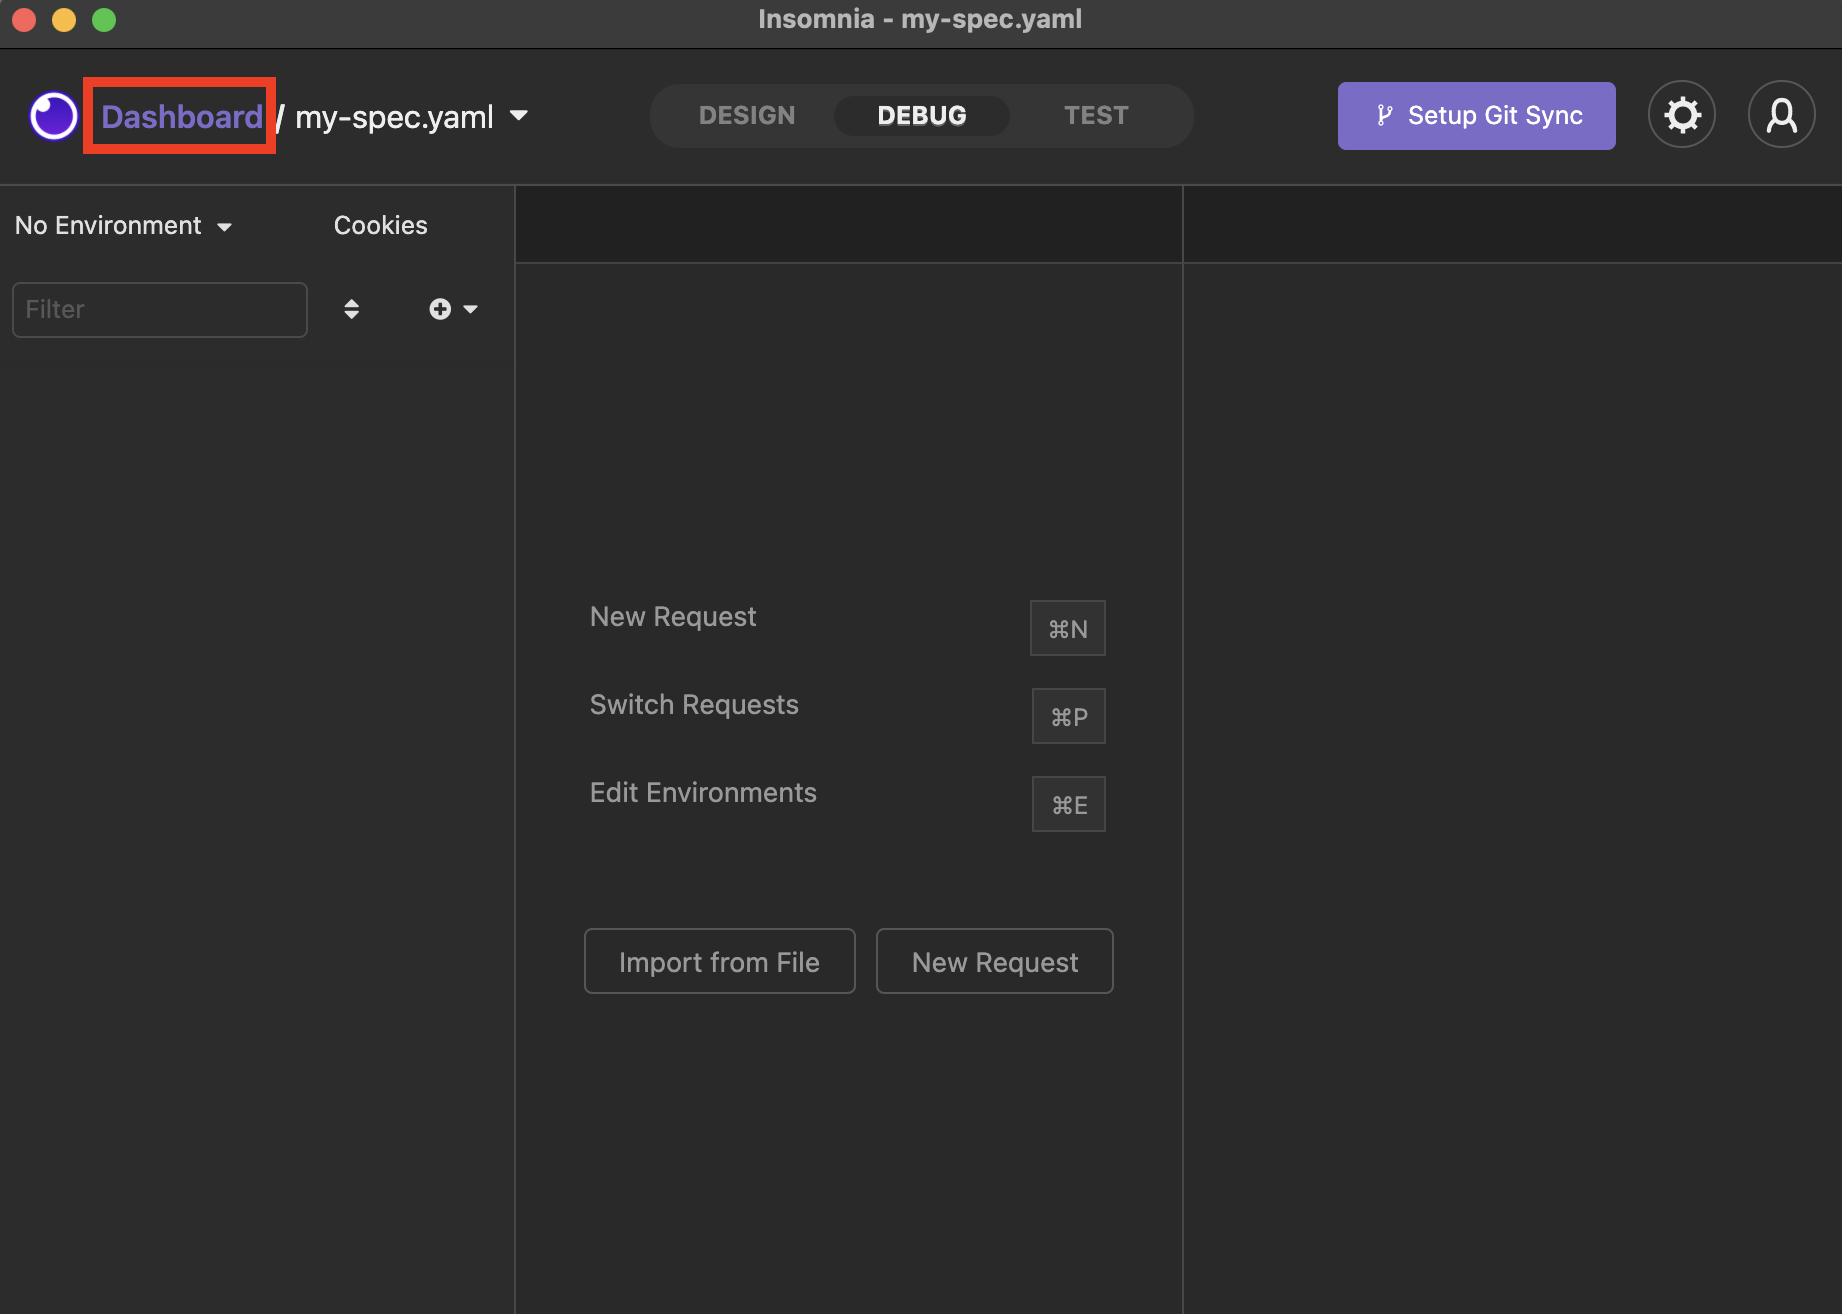
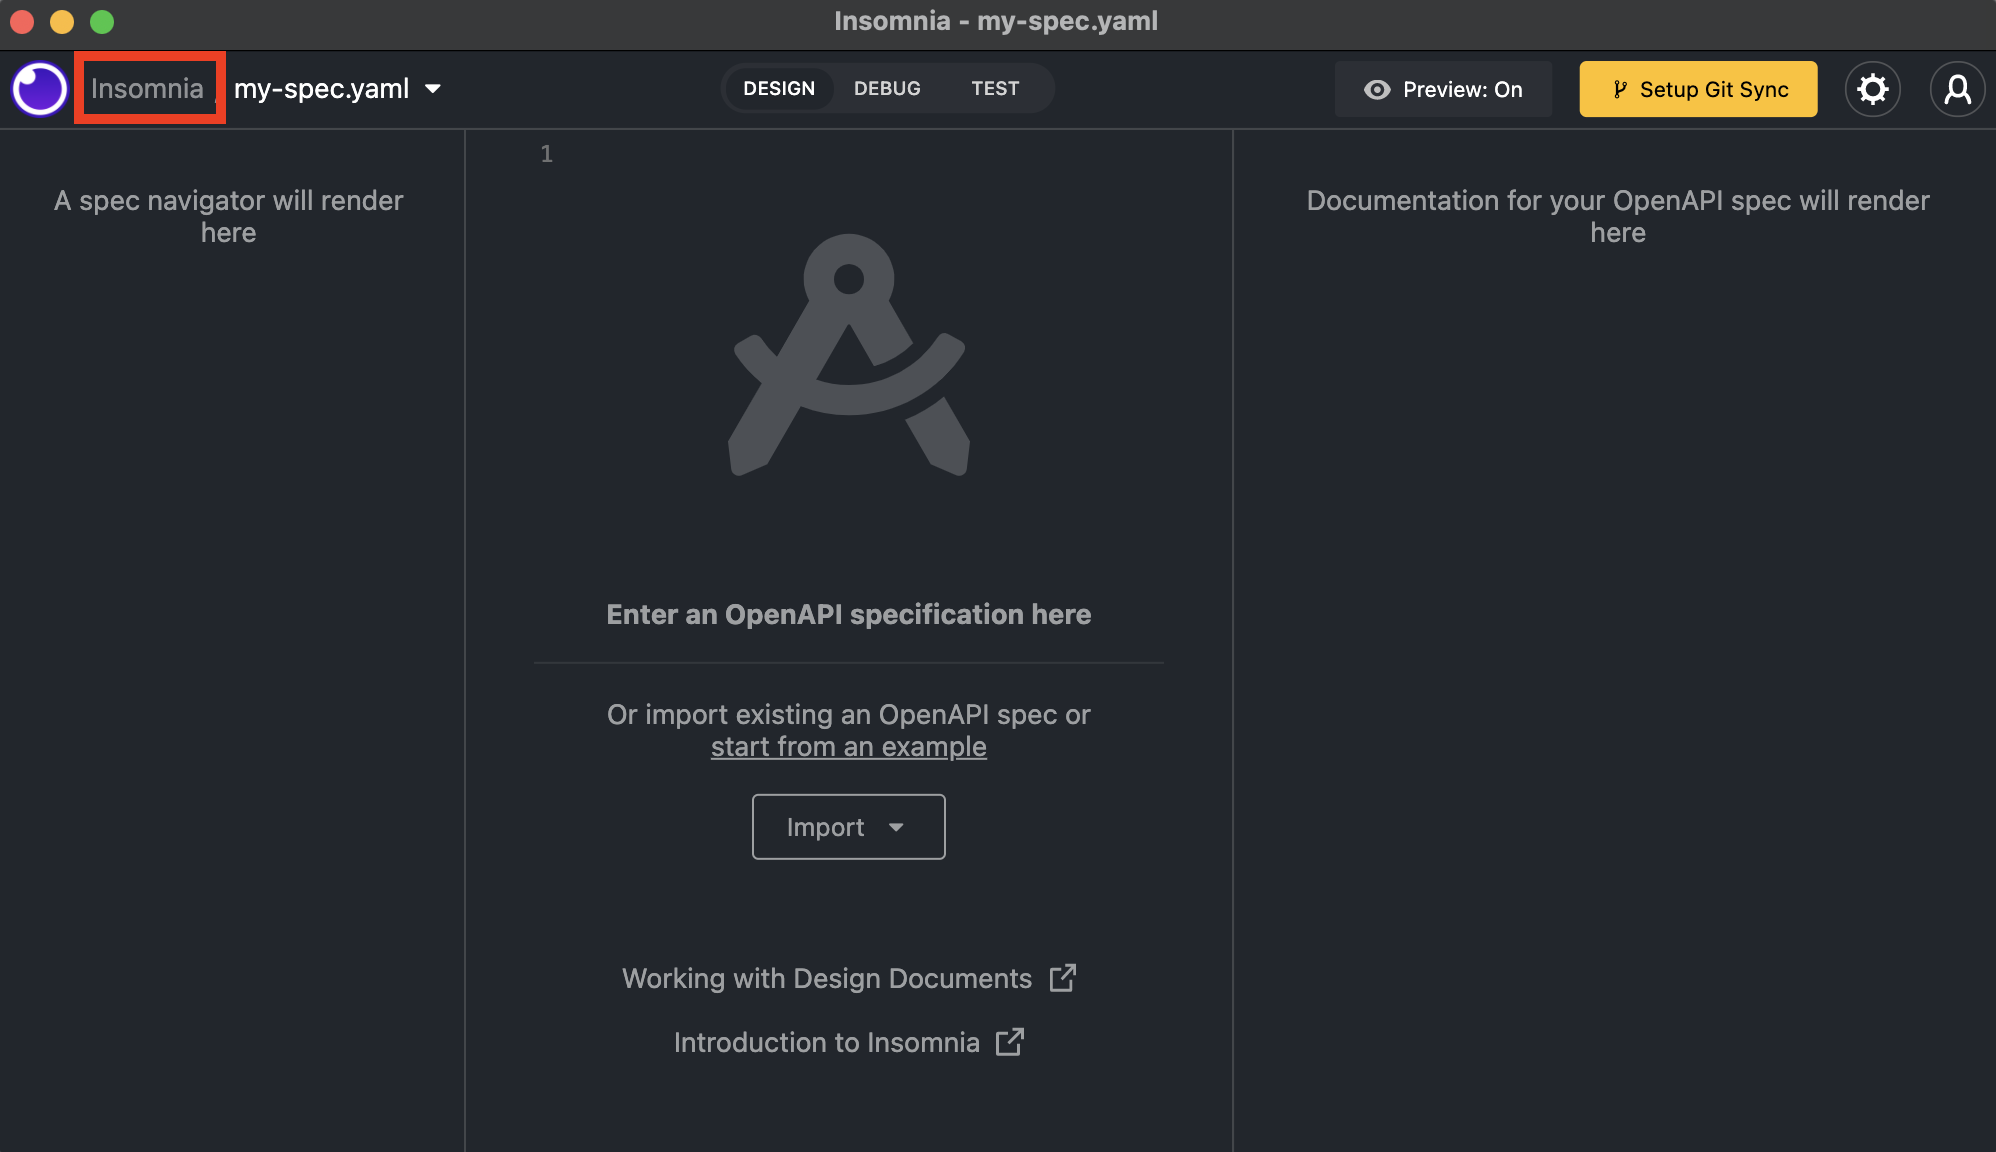
replace screenshot

diff --git a/docs/insomnia/design-documents.md b/docs/insomnia/design-documents.md
@@ -14,7 +14,7 @@ Documents are accessible through the Dashboard of your Project.
 If you don't see a Document or Collection you're looking for, ensure you're in the right [Project](/insomnia/projects) by clicking on the Insomnia dropdown menu. Note that the dropdown title will be **Insomnia** if you're in the default Project.  
 
 ![Click Dashboard in the upper left-hand corner to return to a listing of your Documents and Collections.](/assets/images/access-dashboard.png)
-_From inside a Document or Collection, return to your listings by clicking Dashboard._
+_From inside a Document or Collection, return to your listings by clicking on your Project name. In this case, the Project name is Insomnia._
 
 For information about working with Collections, see [Request Collections](/insomnia/request-collections).
 
